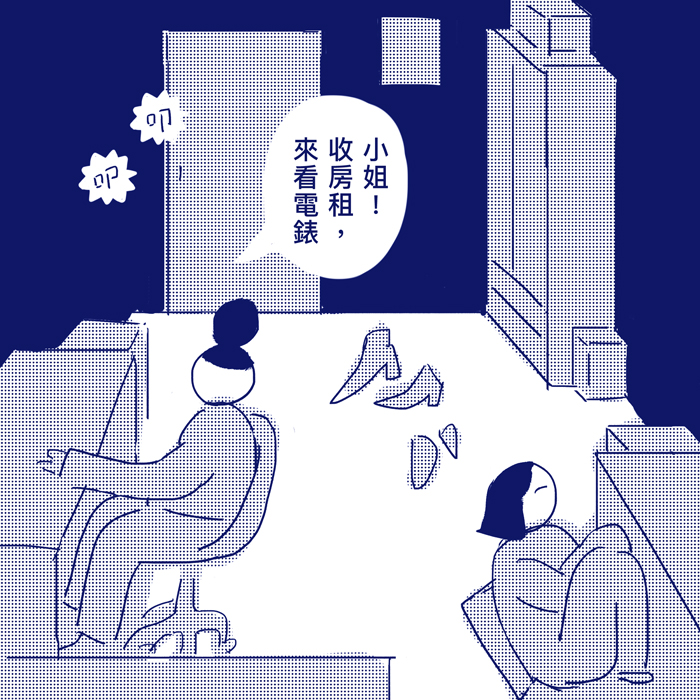
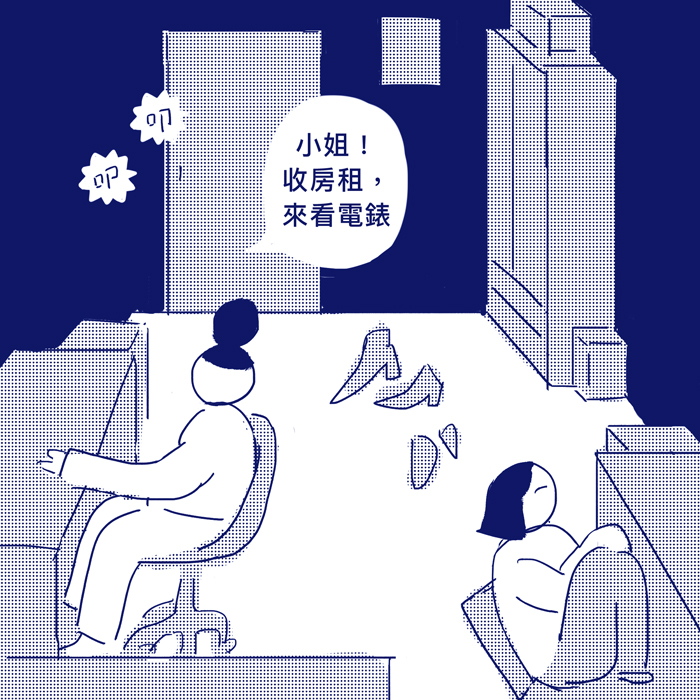
耳塞草圖

diff --git a/products/earplugs.html b/products/earplugs.html
@@ -89,17 +89,16 @@
     <section>
         <div class="container">
             <div class="graphic-novel">
-                <img src="../img/img_products_earplugs_panel_1.png" alt="山不再高，有仙則名⋯" />
+                <img src="../img/img_products_earplugs_panel_1.png" alt="房東在門外喊：「小姐，收房租，來看電錶」" />
             </div>
             <div class="graphic-novel">
-                <img src="../img/img_products_earplugs_panel_2.png" alt="水不在深，有龍則靈。斯是陋室⋯惟吾德馨" />
+                <img src="../img/img_products_earplugs_panel_2.png" alt="你們在昏暗的外面，房東拿起手電筒照向電錶" />
             </div>
             <div class="graphic-novel">
-                <img src="../img/img_products_earplugs_panel_3.png" alt="談笑有鴻儒，往來無白丁。可以調素琴，閱金經。無絲竹之亂耳，無案牘之⋯勞形。南陽諸葛廬，嗯⋯西蜀子云亭。孔子云⋯⋯？」
-                " />
+                <img src="../img/img_products_earplugs_panel_3.png" alt="這個月16701剪掉上個月16512，乘每度電5元，再除以2，兩人平分電費" />
             </div>
             <div class="graphic-novel">
-                <img src="../img/img_products_earplugs_panel_4.png" alt="你大喊「何陋之有！」" />
+                <img src="../img/img_products_earplugs_panel_4.png" alt="從牆壁傳來隔壁房客的聲音「472.5」，你說：「你下班啦」" />
             </div>
         </div>
 
